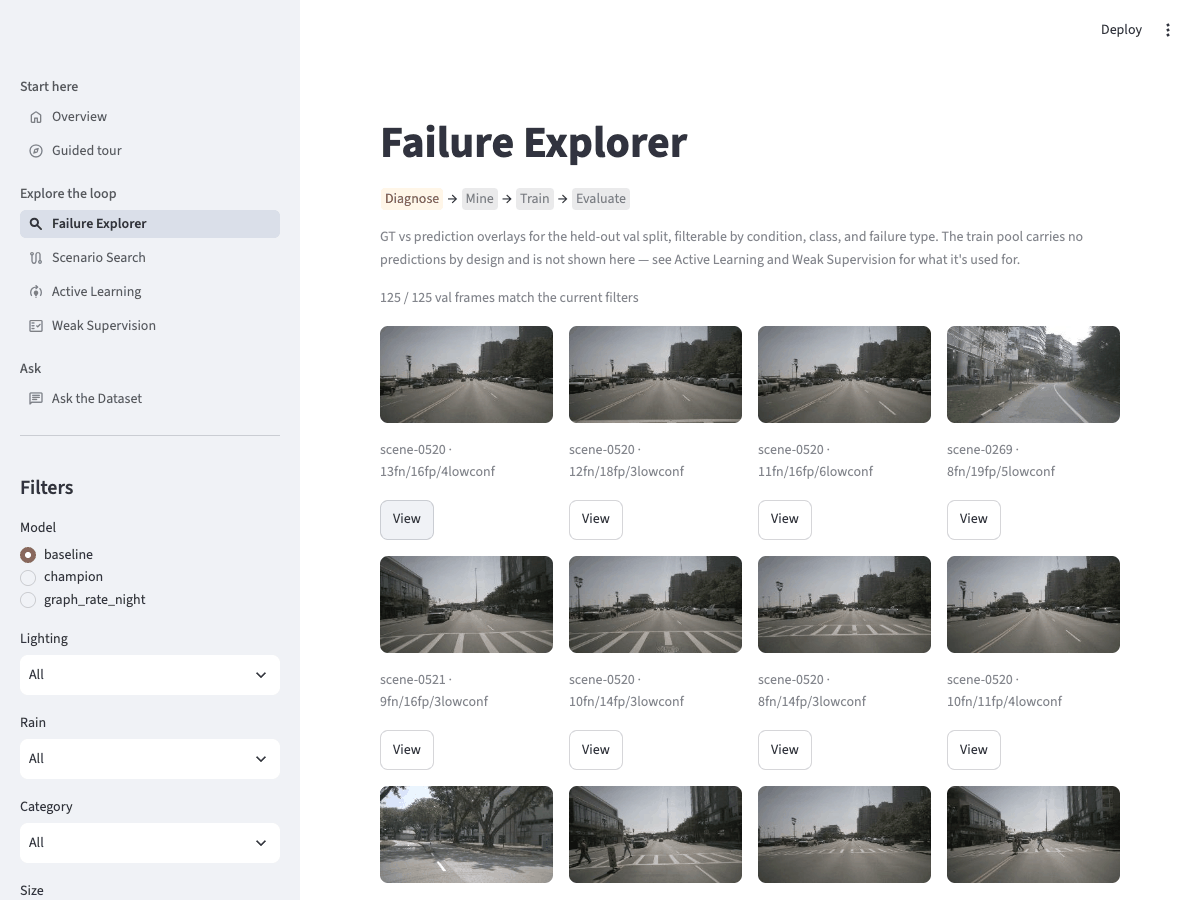
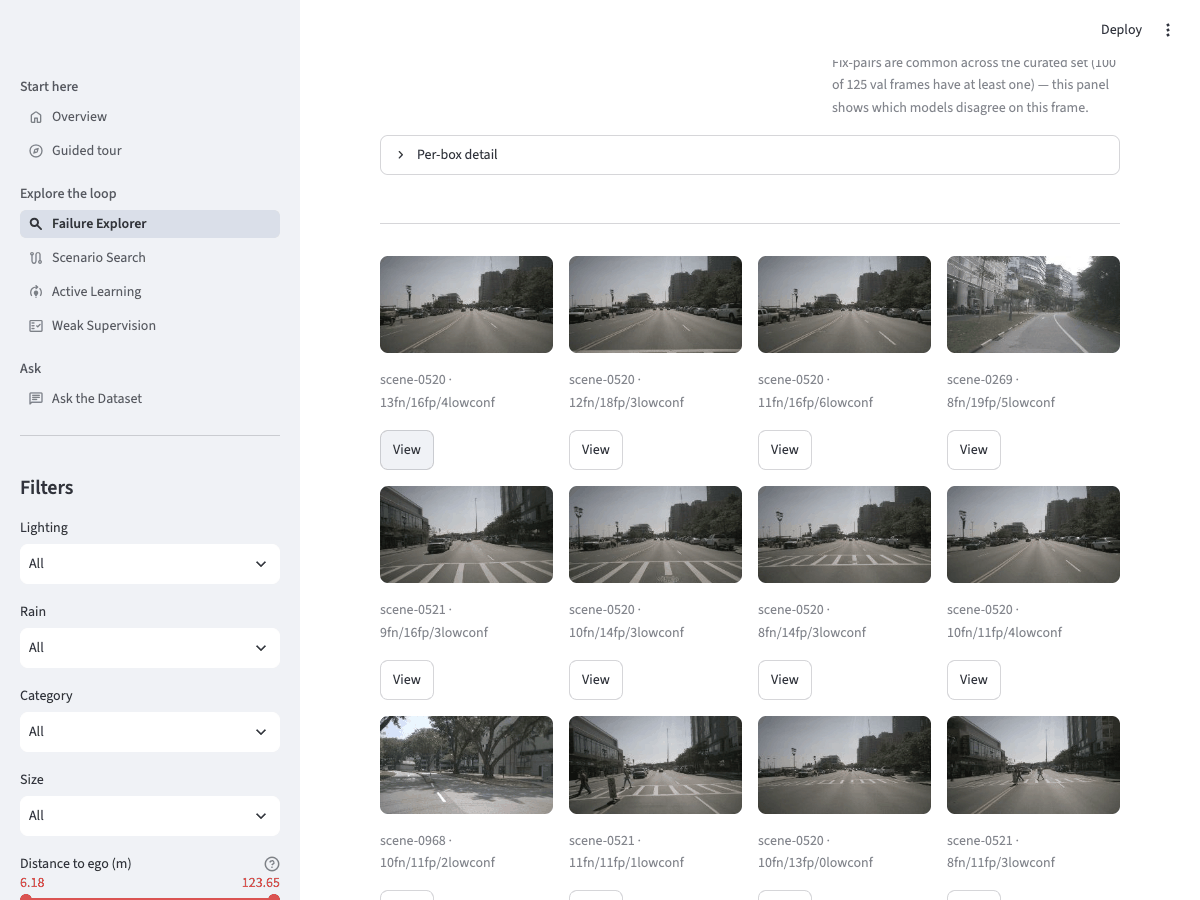
demo: Phase 9b screenshots (failures/overview/weak) + success-walk local stamps

diff --git a/docs/DEMO.md b/docs/DEMO.md
@@ -692,14 +692,14 @@ deployed URL.
 | # | Question (DEMO_PLAN.md) | Page | Section / element that answers it | Status |
 |---|---|---|---|---|
 | 1 | What problem does the project solve? | Overview + Guided tour | the loop strip ("Detect weakness → Find useful data → Retrain → Measure impact") and tour step 1, **The weakness: night** | local: 2026-08-22 · live: pending |
-| 2 | Where does the baseline perception model fail? | Guided tour + Failure Explorer | tour step 2, **One missed pedestrian** (the hero frame, per-model claims), and Failure Explorer's **Detail** — now the first block on the page, auto-selected, with the **Model** radio and the GT / Predictions / Overlay toggle beside the image | local: 2026-08-22 · live: pending |
+| 2 | Where does the baseline perception model fail? | Guided tour + Failure Explorer | tour step 2, **One missed pedestrian** (the hero frame, per-model claims), and Failure Explorer's **Detail** — now the first block on the page, auto-selected, with the **Model** radio and the GT / Predictions / Overlay toggle beside the image | local: 2026-08-23 · live: pending |
 | 3 | How does the system find difficult data? | Guided tour + Scenario Search | tour step 3, **Find more like it** (the flagship event), and the six **preset** buttons + ranked card grid | local: 2026-08-22 · live: pending |
-| 4 | Why is the graph useful? | Scenario Search | the compact `parity_short` line in the event viewer header (visible once an event is opened — flagship 30 events found · SQL 30 / Graph 30 ✓), and the same viewer's **Interactive graph** panel, whose **Reveal the matched path** slider walks Scene → Keyframe → nearest matching objects → Ego pose one step at a time (amber = revealed, hollow = still to come) | local: 2026-08-22 · live: pending |
-| 5 | What does CAN-bus data add? | Scenario Search (+ Overview) | the event viewer's two **CAN curves** beside the frame (speed km/h + longitudinal accel m/s² over t−2…t+2, the rule following the filmstrip slider), the **CAN speed** card in the six-card row, and the filmstrip's own ego-pose readout; Overview's **CAN speed vs ego-motion** card (r), inside the **Dataset scale & data checks** expander | local: 2026-08-22 · live: pending |
-| 6 | How does active learning choose frames? | Guided tour + Active Learning | tour step 4, **Why this frame was picked** (the `selection_factors` panel), and the deep page's **Three ways to pick 1,500 frames** strategy charts plus the **Why was this frame selected?** panel, whose reason chips head the factor lines | local: 2026-08-22 · live: pending |
+| 4 | Why is the graph useful? | Scenario Search | the compact `parity_short` line in the event viewer header (visible once an event is opened — flagship 30 events found · SQL 30 / Graph 30 ✓), and the same viewer's **Interactive graph** panel, whose **Reveal the matched path** slider walks Scene → Keyframe → nearest matching objects → Ego pose one step at a time (amber = revealed, hollow = still to come) | local: 2026-08-23 · live: pending |
+| 5 | What does CAN-bus data add? | Scenario Search (+ Overview) | the event viewer's two **CAN curves** beside the frame (speed km/h + longitudinal accel m/s² over t−2…t+2, the rule following the filmstrip slider), the **CAN speed** card in the six-card row, and the filmstrip's own ego-pose readout; Overview's **CAN speed vs ego-motion** card (r), inside the **Dataset scale & data checks** expander | local: 2026-08-23 · live: pending |
+| 6 | How does active learning choose frames? | Guided tour + Active Learning | tour step 4, **Why this frame was picked** (the `selection_factors` panel), and the deep page's **Three ways to pick 1,500 frames** strategy charts plus the **Why was this frame selected?** panel, whose reason chips head the factor lines | local: 2026-08-23 · live: pending |
 | 7 | Did targeted retraining improve performance? | Guided tour + Active Learning | tour steps 5-6, **Retrain on what was found** / **Same kind of frame, after**, plus the deep page's **Every arm, one chart** (13 arms in round order) and **Before / after** exemplars | local: 2026-08-22 · live: pending |
-| 8 | How well did VLM-generated supervision work? | Weak Supervision | the retention cards (GT gain retained + verifier retention), **One frame, three views** (what the VLM's counts kept on a train-pool frame, and what the weak-trained checkpoint vs its GT-labelled twin then did on a held-out val frame), and **What the VLM saw** accepted/rejected galleries | local: 2026-08-21 · live: pending |
-| 9 | Why did weak supervision underperform GT? | Weak Supervision | **Where the rest of the gain went** (dropped-frame cost vs label cost), **Where the VLM's counting breaks down** (count MAE per crowding bucket) and **What the verifier's rule selects for** (the crowding bias) | local: 2026-08-21 · live: pending |
+| 8 | How well did VLM-generated supervision work? | Weak Supervision | the retention cards (GT gain retained + verifier retention), **One frame, three views** (what the VLM's counts kept on a train-pool frame, and what the weak-trained checkpoint vs its GT-labelled twin then did on a held-out val frame), and **What the VLM saw** accepted/rejected galleries | local: 2026-08-23 · live: pending |
+| 9 | Why did weak supervision underperform GT? | Weak Supervision | **Where the rest of the gain went** (dropped-frame cost vs label cost), **Where the VLM's counting breaks down** (count MAE per crowding bucket) and **What the verifier's rule selects for** (the crowding bias) | local: 2026-08-23 · live: pending |
 | 10 | How does the project form a closed model-improvement loop? | Guided tour + Active Learning + Weak Supervision | tour step 7, **What we found, added, gained — and what failed**, closed by the persistent loop breadcrumb on every page | local: 2026-08-22 · live: pending |
 
 ## Dataset attribution & license
